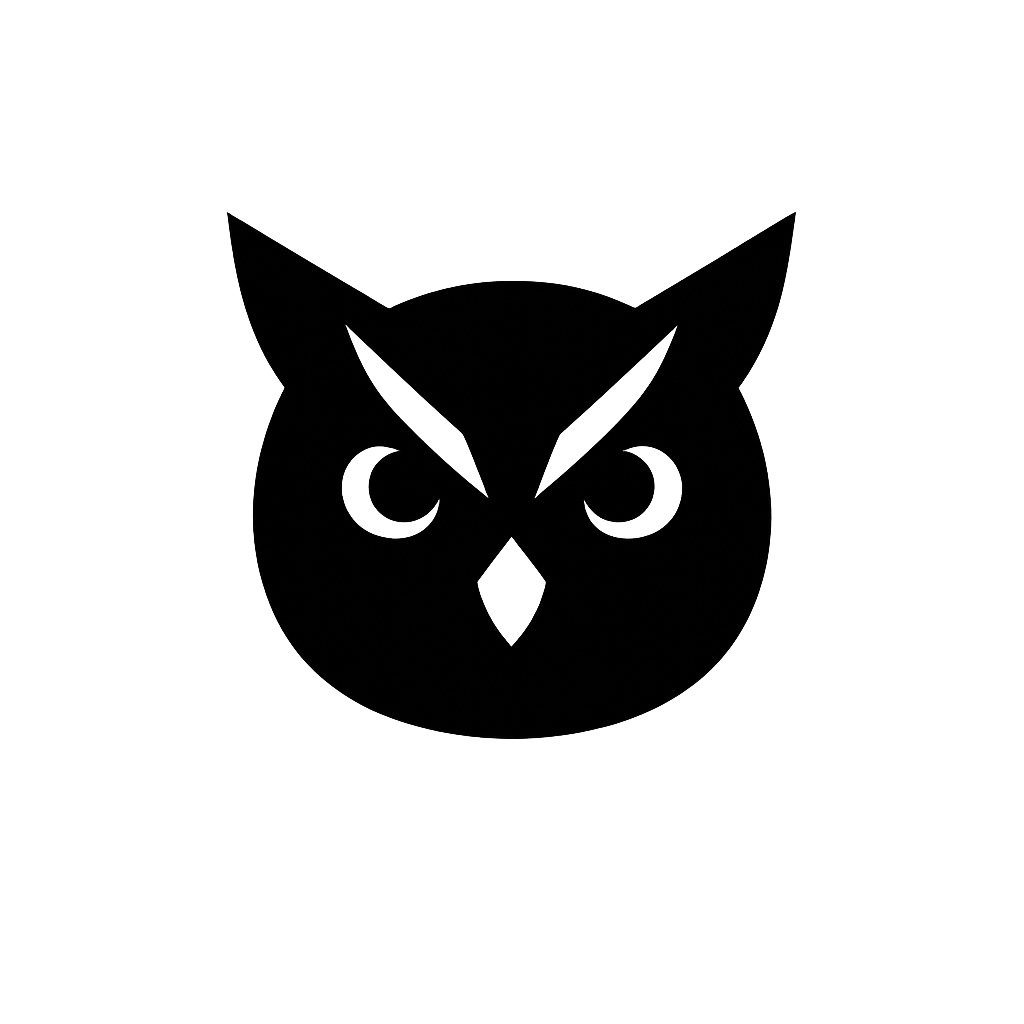
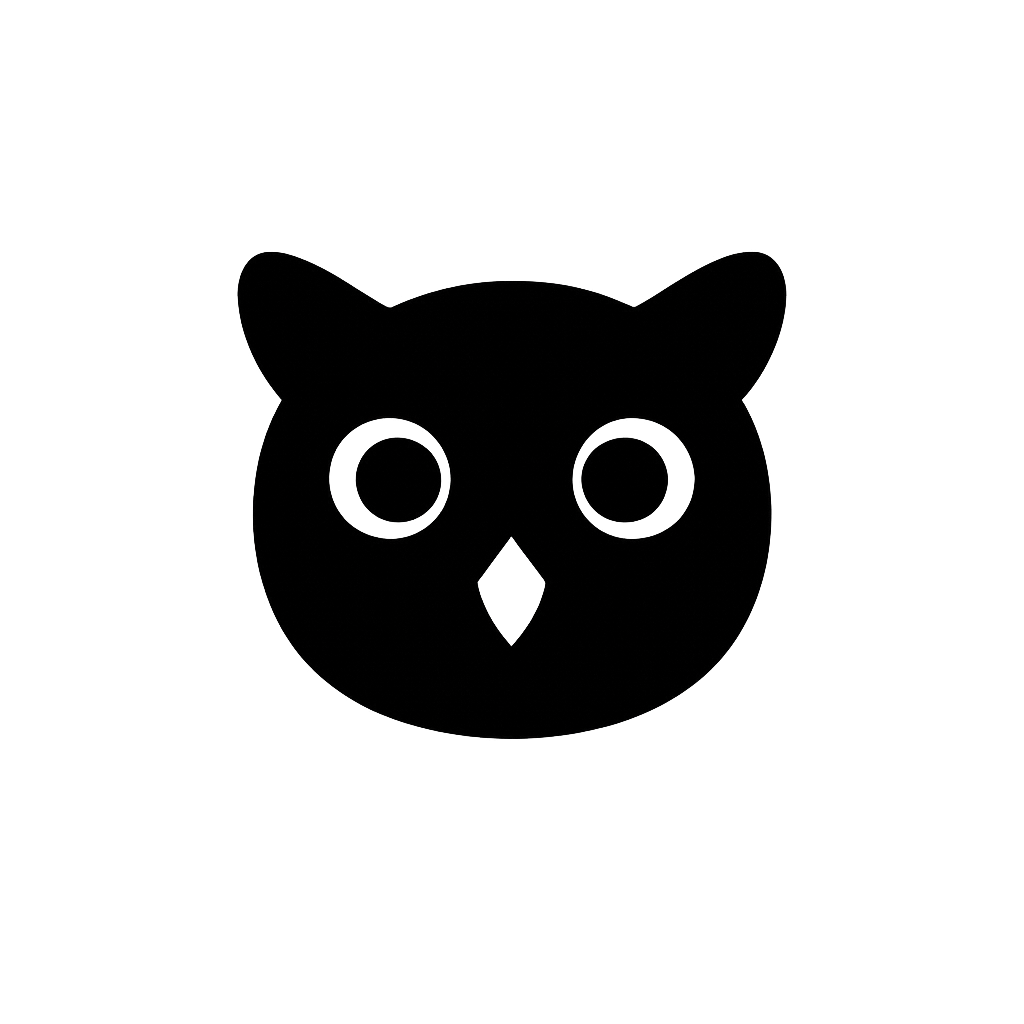
fix(tray): the approved glyph, the menu on left click, and words that change
Three reports from testing.

The icon shipped was the rejected artwork — the one with the angry brows
and spiked tufts that reads as a demon at menu bar size. Swapped for the
calm-eyed head that was approved, regenerated.

The menu now opens on left click. Right click cannot be given the panel
instead: tray-icon has a switch for its right-click menu and Tauri 2.11
exposes only the left-click one, so the menu pops on right click whatever
we hang off the event. Either button opens the menu; the panel is one
item inside it.

Changing the language left the old words on screen, because the rebuild
signature covered only the waiting set — excluding the cost had excluded
everything else with it. The signature now spans every word the menu
draws, and still not the figure that moves each tick.

diff --git a/src-tauri/src/tray.rs b/src-tauri/src/tray.rs
@@ -8,7 +8,7 @@ use std::time::Duration;
 use chrono::Local;
 use tauri::image::Image;
 use tauri::menu::{Menu, MenuEvent, MenuItemBuilder, PredefinedMenuItem};
-use tauri::tray::{MouseButton, MouseButtonState, TrayIconBuilder, TrayIconEvent};
+use tauri::tray::TrayIconBuilder;
 use tauri::{AppHandle, Manager, Theme};
 
 use crate::app::{self, App, Span};
@@ -65,23 +65,16 @@ pub(crate) fn hide_panel(app: &AppHandle) {
 pub(crate) fn build(app: &AppHandle) -> tauri::Result<()> {
     let tray = TrayIconBuilder::with_id(TRAY_ID)
         .icon(image(app, &crate::core::tray::IconKey::Bare.asset())?)
-        .on_tray_icon_event(|tray, event| {
-            if let TrayIconEvent::Click {
-                button: MouseButton::Left,
-                button_state: MouseButtonState::Up,
-                ..
-            } = event
-            {
-                show_panel(tray.app_handle());
-            }
-        })
         .on_menu_event(on_menu_event)
         .build(app)?;
 
     #[cfg(target_os = "macos")]
     let _ = tray.set_icon_as_template(true);
-    // Defaults to true, so adding a menu would silently take the left click away.
-    let _ = tray.set_show_menu_on_left_click(false);
+    // Either button opens the menu, and the panel is one item inside it. Right-click
+    // cannot be made to do something else: `tray-icon` has a switch for the
+    // right-click menu, Tauri 2.11 exposes only the left-click one, so the menu pops
+    // on right-click no matter what we hang off the click event.
+    let _ = tray.set_show_menu_on_left_click(true);
 
     apply(app);
     spawn_ticker(app.clone());

diff --git a/src-tauri/src/core/tray.rs b/src-tauri/src/core/tray.rs
@@ -116,9 +116,9 @@ pub fn tray_view(sessions: &[Session], today_cost: f64, words: &TrayStrings) -> 
             "{counted} · {}",
             words.today.replace("{cost}", &format!("{today_cost:.2}"))
         ),
-        signature: items
-            .iter()
-            .map(|item| item.id.as_str())
+        signature: [counted.as_str(), words.open.as_str(), words.quit.as_str()]
+            .into_iter()
+            .chain(items.iter().flat_map(|item| [item.id.as_str(), item.label.as_str()]))
             .collect::<Vec<_>>()
             .join("\u{1f}"),
         items,
@@ -235,6 +235,25 @@ mod tests {
 
         assert_eq!(busy.summary, "2 esperando por você · R$4.20 hoje");
         assert_eq!(quiet.tooltip, "Pervigil — nada esperando");
+    }
+
+    /// The menu is rebuilt only when the signature moves, so a language change that
+    /// left it alone would leave yesterday's words on screen until a session did
+    /// something. Every word the menu draws is in the signature; only the cost is not.
+    #[test]
+    fn the_signature_changes_when_the_language_does() {
+        let sessions = [waiting("a")];
+        let pt = TrayStrings {
+            waiting: "{n} esperando".into(),
+            open: "Abrir Pervigil".into(),
+            quit: "Sair".into(),
+            ..TrayStrings::default()
+        };
+
+        assert_ne!(
+            tray_view(&sessions, 0.0, &en()).signature,
+            tray_view(&sessions, 0.0, &pt).signature
+        );
     }
 
     #[test]
